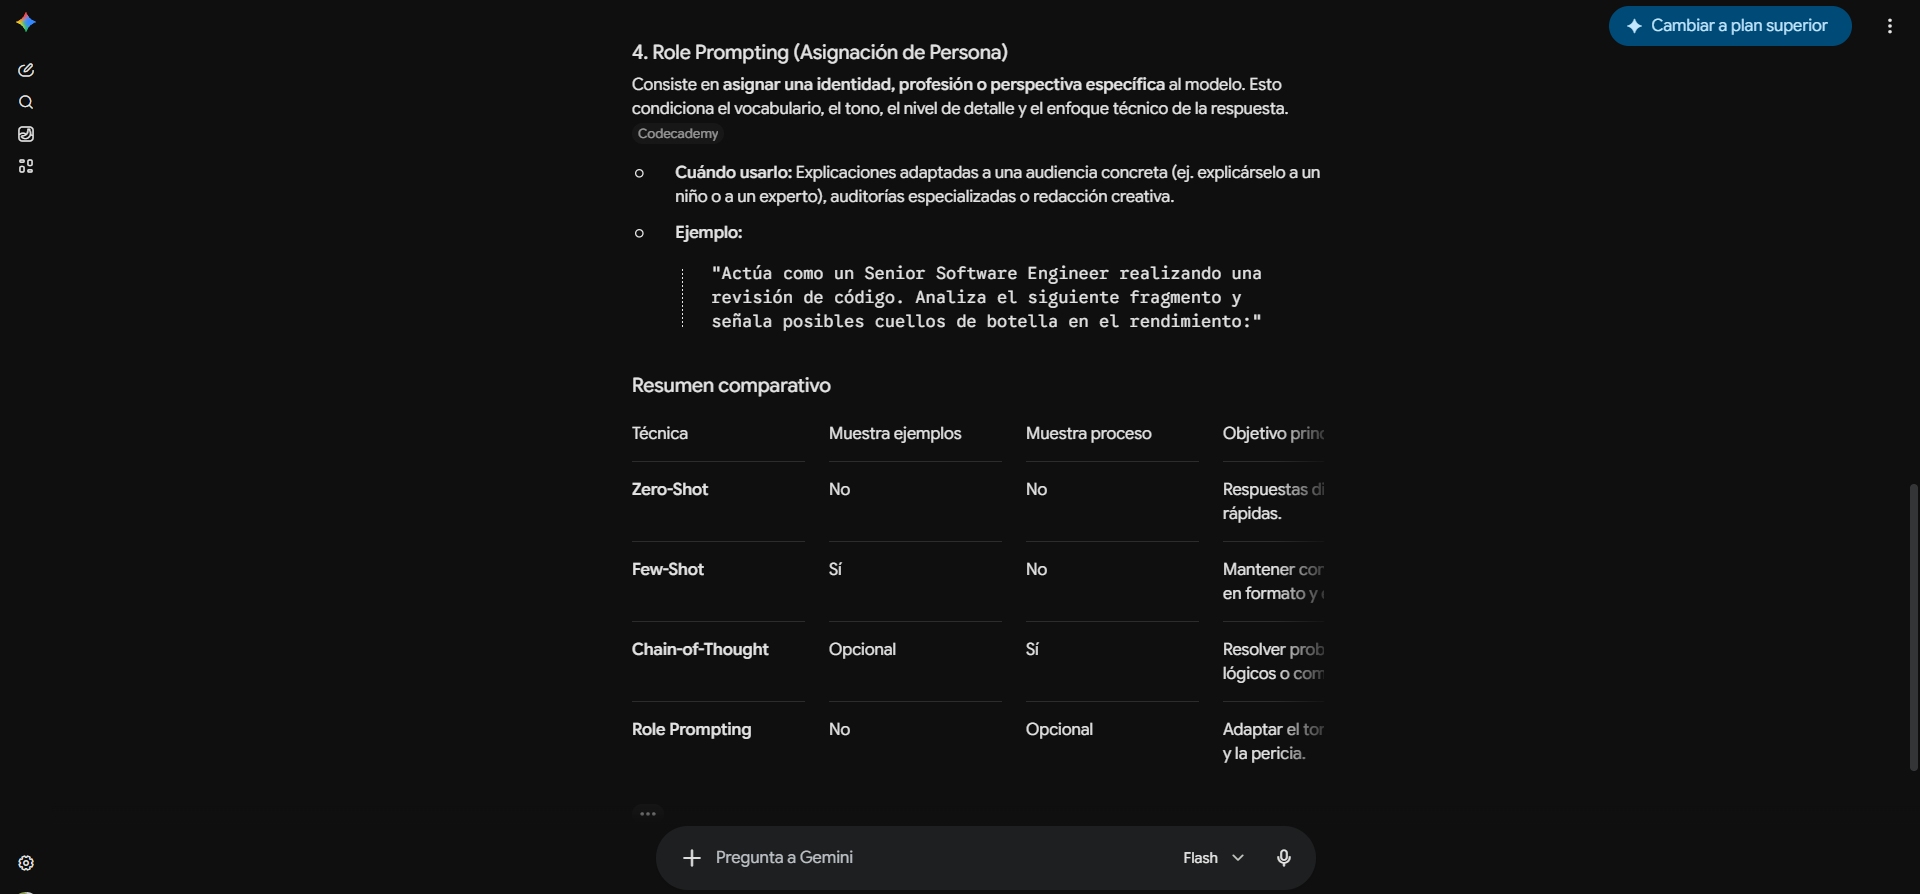
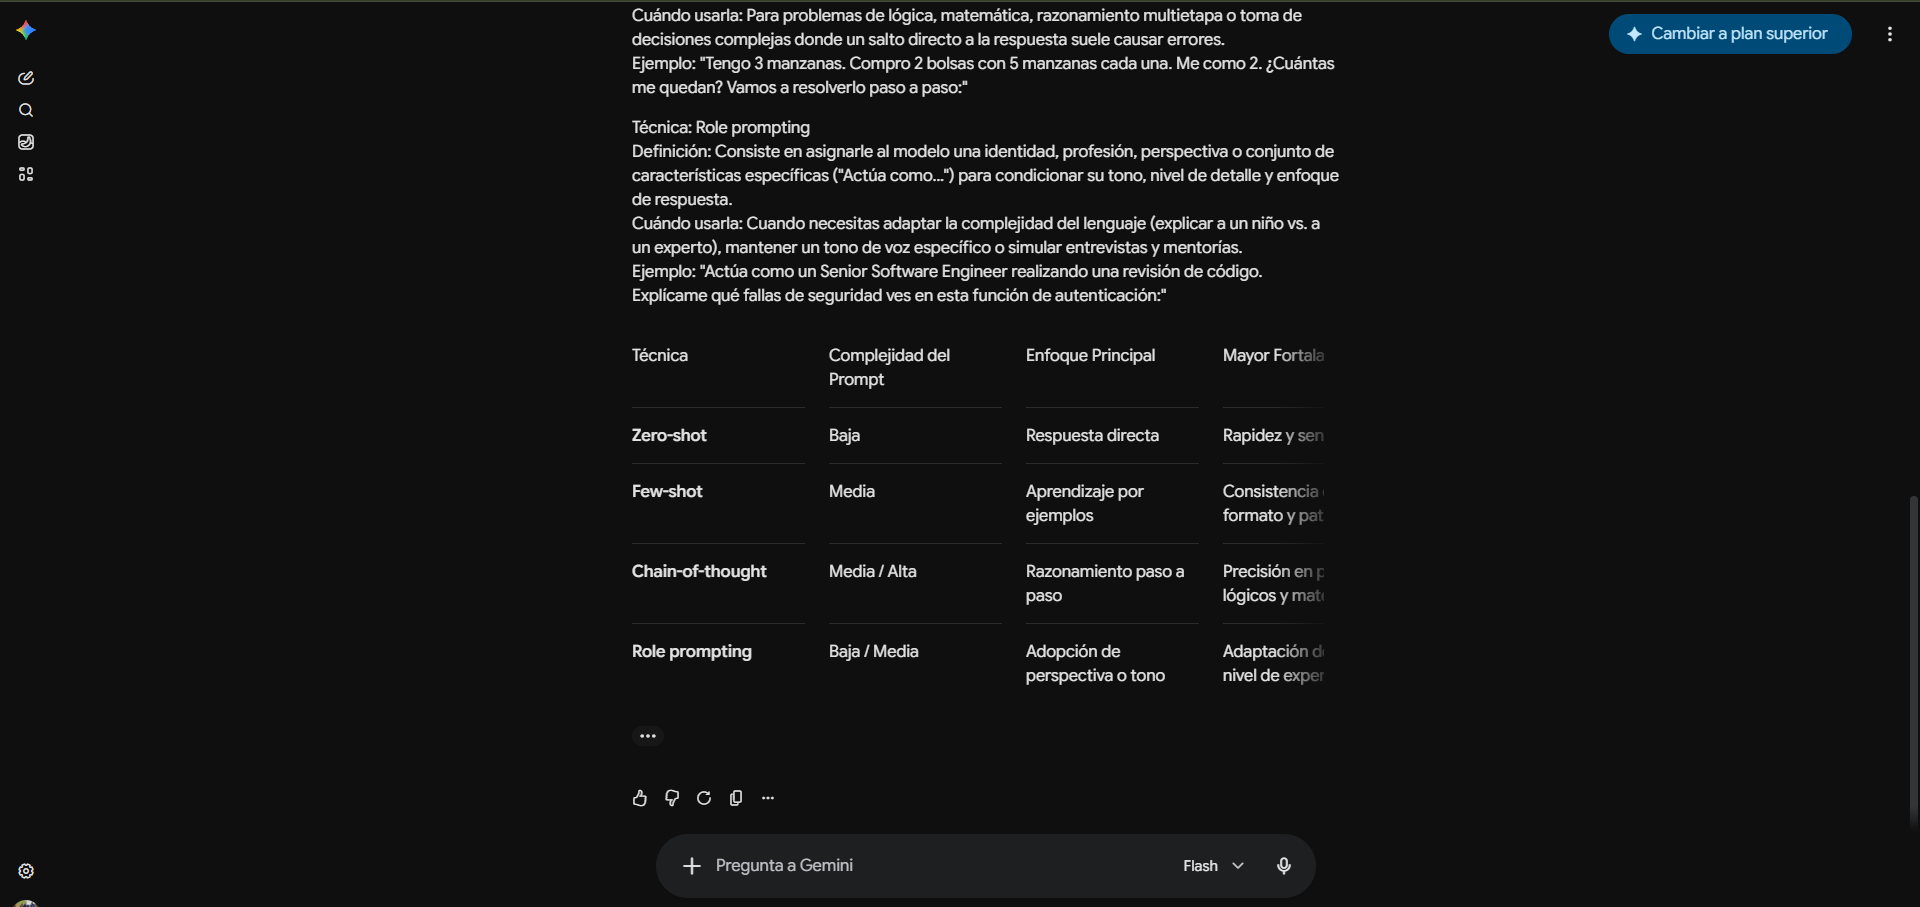
docs(ia): corregir métodos de prompting en prompts-3 y prompts-4, Prompt 3: Grok 4.5 + Chain-of-thought, Prompt 4: Claude + Self-consistency, se eliminan repeticiones de métodos de prompting

diff --git a/docs/02-prompts/prompts-3.md b/docs/02-prompts/prompts-3.md
@@ -1,40 +1,79 @@
 # Prompt 3
 
-**Integrante:** Angel Cuarteron
-**Rol:** Coordinador / DevOps
-**Modelo de IA:** ChatGPT (OpenAI)
-**Método de prompt:** Zero-shot prompting
+**Integrante:** Thiago Piastrellini  
+**Rol:** Especialista en IA y Prompt Engineering  
+**Modelo de IA:** Grok 4.5  
+**Método de prompt:** Chain-of-thought prompting  
 
 ## Prompt exacto
-``` 
-agregar la posibilidad de realizar la compra en base de cuotas y el calculo correspondiente para cada uno y diferentes métodos de pago
+
+**## Prompt exacto**
+
+```text
+Actúa como un Senior Software Engineer evaluando el avance del proyecto para la materia "Programación Web I".
+Analizá el repositorio: https://github.com/angelgc9107-lgtm/ProyectoFerreteria_GRP05
+Quiero que resuelvas esta evaluación razonando paso a paso.
+Primero:
+
+Revisá la estructura de archivos y carpetas del repositorio.
+Verificá la existencia y calidad de plan.md, README.md, index.html y changelog.md.
+Revisá las carpetas docs/01-mockup, docs/02-prompts y docs/03-specs.
+Analizá el uso de ramas (master, develop, feature/* y release/*).
+Revisá el estado de los Pull Requests y si hay evidencia de code reviews con IA.
+
+Después de razonar paso a paso, respondé con esta estructura:
+
+DIAGNÓSTICO GENERAL (nota proyectada de 1 a 10)
+CHECKLIST DE CUMPLIMIENTO POR ROL
+ALERTAS CRÍTICAS / ERRORES DETECTADOS
+PLAN DE ACCIÓN RECOMENDADO
 ```
 
-**Captura de pantalla del prompt solicitado:**
-![Prompt para ChatGPT](./images/prompt-3-CoordinadorDevOps-1.png)
+****Captura de pantalla del prompt solicitado:****
+
+![Prompt en Grok 4.5](./images/prompt-3-EspecialistaEnIAyPromptEngineering-1.png)
 
 ## Resultado esperado
 
-Agregar al `plan.md` los diferentes métodos de pago disponibles, la posibilidad de comprar en un solo pago o en cuotas, y el detalle de cómo se calcula cada cuota, incluyendo intereses o recargos según el método elegido.
+Obtener un diagnóstico completo del estado actual del repositorio del proyecto de Ferretería, verificando el cumplimiento de la rúbrica oficial de la Actividad Obligatoria N°1. La respuesta debía identificar el nivel de cumplimiento de cada integrante según su rol, detectar errores o faltantes críticos que pudieran provocar una desaprobación y establecer un plan de acción ordenado para completar la entrega.
 
 ## Resultado obtenido
 
-ChatGPT devolvió un listado detallado de Requisitos Funcionales (RF16 a RF26) cubriendo: selección de método de pago (RF16), compra en un pago (RF17), compra en cuotas (RF18), selección de cantidad de cuotas (RF19), cálculo del valor de cada cuota con y sin interés (RF20), aplicación de intereses o recargos con fórmulas concretas (RF21), condiciones específicas según método de pago (RF22), visualización de opciones de financiación (RF23), recálculo automático ante cambios (RF24), resumen de pago antes de confirmar (RF25) y confirmación del pedido (RF26). Incluyó fórmulas explícitas (Recargo = Total de compra × Porcentaje de recargo; Total financiado = Total de compra + Recargo; Valor de cuota = Total financiado / Cantidad de cuotas) acompañadas de ejemplos numéricos concretos (ej: compra de $120.000 con 20% de recargo → $144.000 financiados en 6 cuotas de $24.000).
+La IA analizó el repositorio y determinó que el proyecto estaba **bien encaminado, pero todavía incompleto para ser aprobado**. Proyectó una calificación de aproximadamente **5,5 a 6,5 sobre 10**, indicando que, con los ajustes pendientes, el grupo podía alcanzar aproximadamente entre **8 y 9 puntos**.
 
-**Captura de pantalla del resultado obtenido:**
-![Fórmulas de cálculo de cuotas y ejemplo numérico](./images/prompt-3-CoordinadorDevOps-2.png)
-![Fórmulas de cálculo de cuotas y ejemplo numérico](./images/prompt-3-CoordinadorDevOps-3.png)
-![Fórmulas de cálculo de cuotas y ejemplo numérico](./images/prompt-3-CoordinadorDevOps-4.png)
-![Fórmulas de cálculo de cuotas y ejemplo numérico](./images/prompt-3-CoordinadorDevOps-5.png)
-![Fórmulas de cálculo de cuotas y ejemplo numérico](./images/prompt-3-CoordinadorDevOps-6.png)
-![Fórmulas de cálculo de cuotas y ejemplo numérico](./images/prompt-3-CoordinadorDevOps-7.png)
-![Fórmulas de cálculo de cuotas y ejemplo numérico](./images/prompt-3-CoordinadorDevOps-8.png)
+Entre los aspectos positivos, identificó que el repositorio ya contaba con una estructura de carpetas adecuada, las ramas `master` y `develop`, el archivo `plan.md`, los templates de Pull Request, Issues, documentación del mockup, README y las especificaciones correspondientes a los diferentes roles.
 
+También verificó avances específicos de cada integrante:
 
-## Correcciones manuales realizadas
+* **Coordinador / DevOps:** repositorio, ramas, `plan.md`, templates e Issues presentes, aunque faltaba crear la rama `release/actividad-obligatoria-1`, completar el `changelog.md` y habilitar GitHub Pages.
+* **Desarrollador Frontend:** rama correspondiente, `spec-frontend.md` e `index.html` con estructura HTML5 y contenido real. Sin embargo, el PR #15 permanecía abierto con *Changes requested* y faltaba consolidar la evidencia del uso de IA.
+* **Documentador / Diseñador UX:** PR #9 ya mergeado, README, mockup y `spec-ux.md` presentes. Quedaba verificar y documentar correctamente el proceso de uso de prompts e IA.
+* **Especialista en IA y Prompt Engineering:** `sdd-decisions.md`, template de specs y los archivos de prompts estaban presentes en la feature. Sin embargo, el PR #10 continuaba abierto con *Changes requested* y todavía debía verificarse que los cinco prompts utilizaran modelos y métodos diferentes y que contaran con toda la evidencia solicitada.
 
-- Se integraron los nuevos RF (16 a 26) al listado ya existente en `plan.md`, ajustando la numeración para que no se superpusiera con los requisitos ya definidos previamente.
+La IA señaló como principales problemas críticos:
 
-## Aplicación en el proyecto
+1. `changelog.md` incompleto, especialmente por la falta de enlaces a determinados Pull Requests.
+2. PR #15 de Frontend y PR #10 de IA todavía abiertos con *Changes requested*.
+3. Ausencia de la rama `release/actividad-obligatoria-1`.
+4. Falta de habilitación de GitHub Pages para la rama de release.
+5. Posible falta de evidencia suficiente de los cuatro code reviews asistidos por IA.
+6. Necesidad de verificar que el profesor figure como colaborador del repositorio.
+7. Necesidad de garantizar que los archivos `spec` estén commiteados antes del código correspondiente.
 
-`plan.md` — sección de Requisitos Funcionales, incorporando el detalle completo de métodos de pago, cuotas y cálculo de financiación.
+Finalmente, Grok propuso como orden de trabajo: resolver los dos PR pendientes, completar el `changelog.md`, crear la rama `release/actividad-obligatoria-1`, habilitar GitHub Pages, abrir el PR final desde `release/actividad-obligatoria-1` hacia `master` y realizar una revisión final de todos los requisitos de la rúbrica.
+
+****Captura de pantalla del resultado obtenido:****
+
+![Diagnóstico general y checklist](./images/prompt-3-EspecialistaEnIAyPromptEngineering-2.png)
+
+![Checklist de cumplimiento por roles](./images/prompt-3-EspecialistaEnIAyPromptEngineering-3.png)
+
+![Alertas críticas y errores detectados](./images/prompt-3-EspecialistaEnIAyPromptEngineering-4.png)
+
+**## Correcciones manuales realizadas**
+
+* Ninguna sobre el resultado del análisis. Las recomendaciones obtenidas fueron utilizadas como guía para identificar los pendientes del repositorio y organizar las tareas necesarias para completar la Actividad Obligatoria N°1.
+
+**## Aplicación en el proyecto**
+
+Análisis del estado del repositorio y verificación del cumplimiento de la rúbrica de la Actividad Obligatoria N°1. El resultado se utilizó para detectar los faltantes relacionados con los Pull Requests pendientes, `changelog.md`, la rama `release/actividad-obligatoria-1`, GitHub Pages y la documentación/evidencia de los prompts y revisiones asistidas por IA.

diff --git a/docs/02-prompts/prompts-5.md b/docs/02-prompts/prompts-5.md
@@ -1,34 +1,52 @@
 # Prompt 5
 
-**Integrante:** Thiago Piastrellini
-**Rol:** Especialista en IA y Prompt Engineering
-**Modelo de IA:** Gemini (Google)
-**Método de prompt:** Zero-shot prompting
+**Integrante:** Thiago Piastrellini  
+**Rol:** Especialista en IA y Prompt Engineering  
+**Modelo de IA:** Gemini (Google)  
+**Método de prompt:** Few-shot prompting  
 
 ## Prompt exacto
 ```
-Explicame las diferencias entre zero-shot, few-shot, chain-of-thought y role prompting con ejemplos.
+Explicame las diferencias entre zero-shot, few-shot, chain-of-thought y role prompting.
+Te doy dos ejemplos de cómo quiero que estructures la respuesta:
+Ejemplo 1:
+Técnica: Zero-shot
+Definición: ...
+Cuándo usarla: ...
+Ejemplo: ...
+Ejemplo 2:
+Técnica: Few-shot
+Definición: ...
+Cuándo usarla: ...
+Ejemplo: ...
+Ahora, usando exactamente el mismo formato, explicá las cuatro técnicas (zero-shot, few-shot, chain-of-thought y role prompting) e incluí al final una tabla comparativa.
 ```
 
-**Captura de pantalla del prompt solicitado:**
+**Captura de pantalla del prompt solicitado:**  
 ![Prompt en Gemini](./images/prompt-5-EspecialistaEnIAyPromptEngineering-1.png)
 
 ## Resultado esperado
 
-Obtener una explicación clara de las cuatro técnicas de prompting, con ejemplos concretos de cada una y criterios de cuándo usar cada técnica, para poder clasificar correctamente el método usado en cada uno de los 5 prompts documentados por el equipo.
+Obtener una explicación clara y estructurada de las cuatro técnicas de prompting (Zero-shot, Few-shot, Chain-of-thought y Role prompting), con definición, cuándo usarla y un ejemplo concreto de cada una, más una tabla comparativa final, para poder clasificar correctamente el método usado en cada uno de los 5 prompts del equipo.
 
 ## Resultado obtenido
 
-Gemini explicó las 4 técnicas con definición, cuándo usarlas y un ejemplo concreto de cada una: Zero-shot (sin ejemplos previos, para tareas sencillas), Few-shot (1 a 5 ejemplos de entrada/salida, para formatos estrictos), Chain-of-Thought (razonamiento paso a paso, para problemas lógicos o matemáticos) y Role Prompting (asignar una identidad al modelo, para adaptar tono y nivel técnico). Cerró con una tabla comparativa resumiendo si cada técnica muestra ejemplos, muestra el proceso de razonamiento, y su objetivo principal.
+Gemini generó la explicación de las cuatro técnicas siguiendo el formato solicitado:
 
-**Captura de pantalla del resultado obtenido:**
-![Explicación completa con tabla comparativa](./images/prompt-5-EspecialistaEnIAyPromptEngineering-1.png)
-![Explicación completa con tabla comparativa](./images/prompt-5-EspecialistaEnIAyPromptEngineering-2.png)
+- **Zero-shot**: definición, cuándo usarla y ejemplo de clasificación de sentimiento.
+- **Few-shot**: definición, cuándo usarla y ejemplos de pares entrada-salida.
+- **Chain-of-thought (CoT)**: definición, cuándo usarla y ejemplo de problema matemático paso a paso.
+- **Role prompting**: definición, cuándo usarla y ejemplo de “Actúa como un Senior Software Engineer…”.
+
+Al final incluyó una tabla comparativa con las columnas: Técnica, Complejidad del Prompt, Enfoque Principal y Mayor Fortaleza.
+
+**Captura de pantalla del resultado obtenido:**  
+![Explicación completa con tabla comparativa](./images/prompt-5-EspecialistaEnIAyPromptEngineering-2.png)  
 ![Explicación completa con tabla comparativa](./images/prompt-5-EspecialistaEnIAyPromptEngineering-3.png)
 
 ## Correcciones manuales realizadas
 
-- Ninguna: el resultado se usó directamente como criterio para clasificar el método de prompting en los 5 archivos `prompts-x.md` del equipo.
+- Ninguna. El resultado se usó directamente como criterio para clasificar el método de prompting de los 5 archivos `prompts-x.md` del equipo.
 
 ## Aplicación en el proyecto
 

diff --git a/docs/02-prompts/prompts-2.md b/docs/02-prompts/prompts-2.md
@@ -258,6 +258,7 @@ Generar el archivo `spec-frontend.md` con la misma estructura y estilo que `spec
 El agente completó `spec-frontend.md` trazado contra `plan.md` (RF1-RF8 y RNF1-RNF12), manteniendo la estructura de `spec-ia.md`. Incluyó las responsabilidades del rol Frontend, los requisitos de HTML5 semántico, accesibilidad, catálogo, tabla, lista, enlaces y formulario, con el alcance limitado a esta entrega (sin carrito ni pagos funcionales). Dejó comentarios previstos para CSS y JavaScript futuros, una sección específica para documentar después el proceso con Figma MCP y GitHub Copilot, y los apartados de prompt/resultado/ajustes manuales pendientes sin inventar evidencia. Validó que `index.html` no fue modificado y confirmó que no se realizaron commits ni push.
 
 **Captura de pantalla del resultado obtenido:**
+
 ![Validación y resumen final del agente](./images/prompt-2-DesarrolladorFrontend-2.png)
 
 ## Correcciones manuales realizadas

diff --git a/docs/02-prompts/prompts-1.md b/docs/02-prompts/prompts-1.md
@@ -37,4 +37,5 @@ ChatGPT devolvió un listado estructurado de 18 Requisitos Funcionales (RF1 a RF
 
 ## Aplicación en el proyecto
 
-`plan.md` — sección de Requisitos Funcionales (RF14 a RF20).
+`plan.md` — sección de Requisitos Funcionales (RF1 a RF18) y Requisitos No Funcionales (RNF1 a RNF15).  
+Estos requisitos formaron la base inicial del plan.md, distinguiendo lo que se implementa en la Actividad Obligatoria N°1 de lo que queda para entregas futuras.
